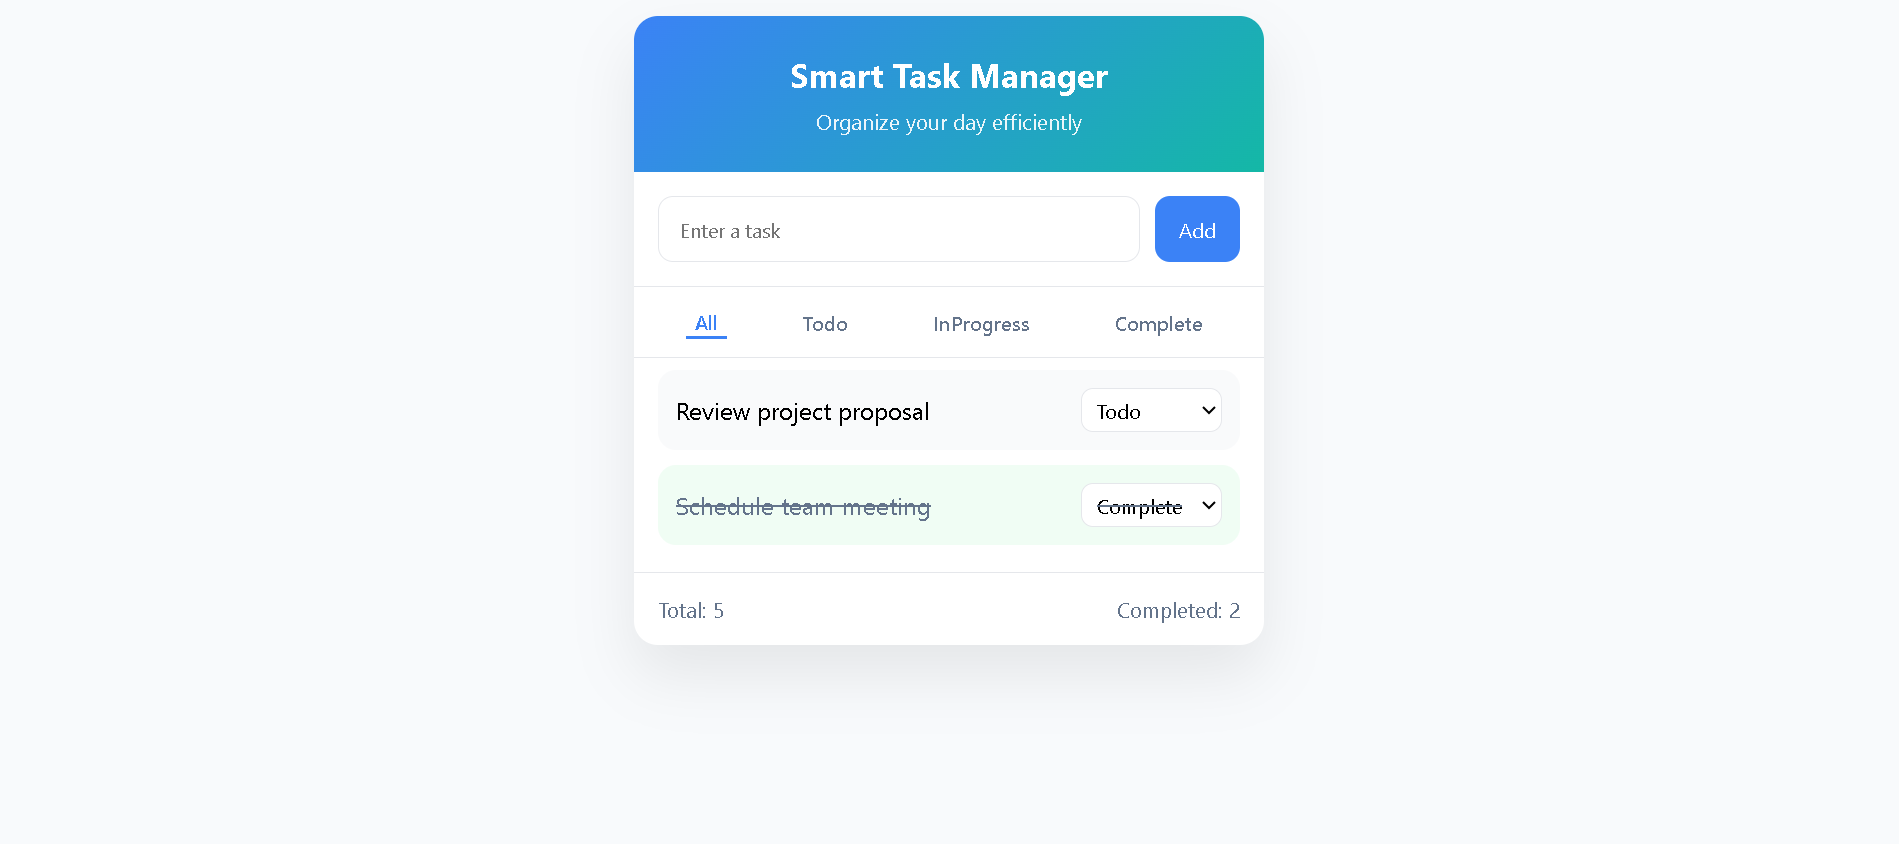
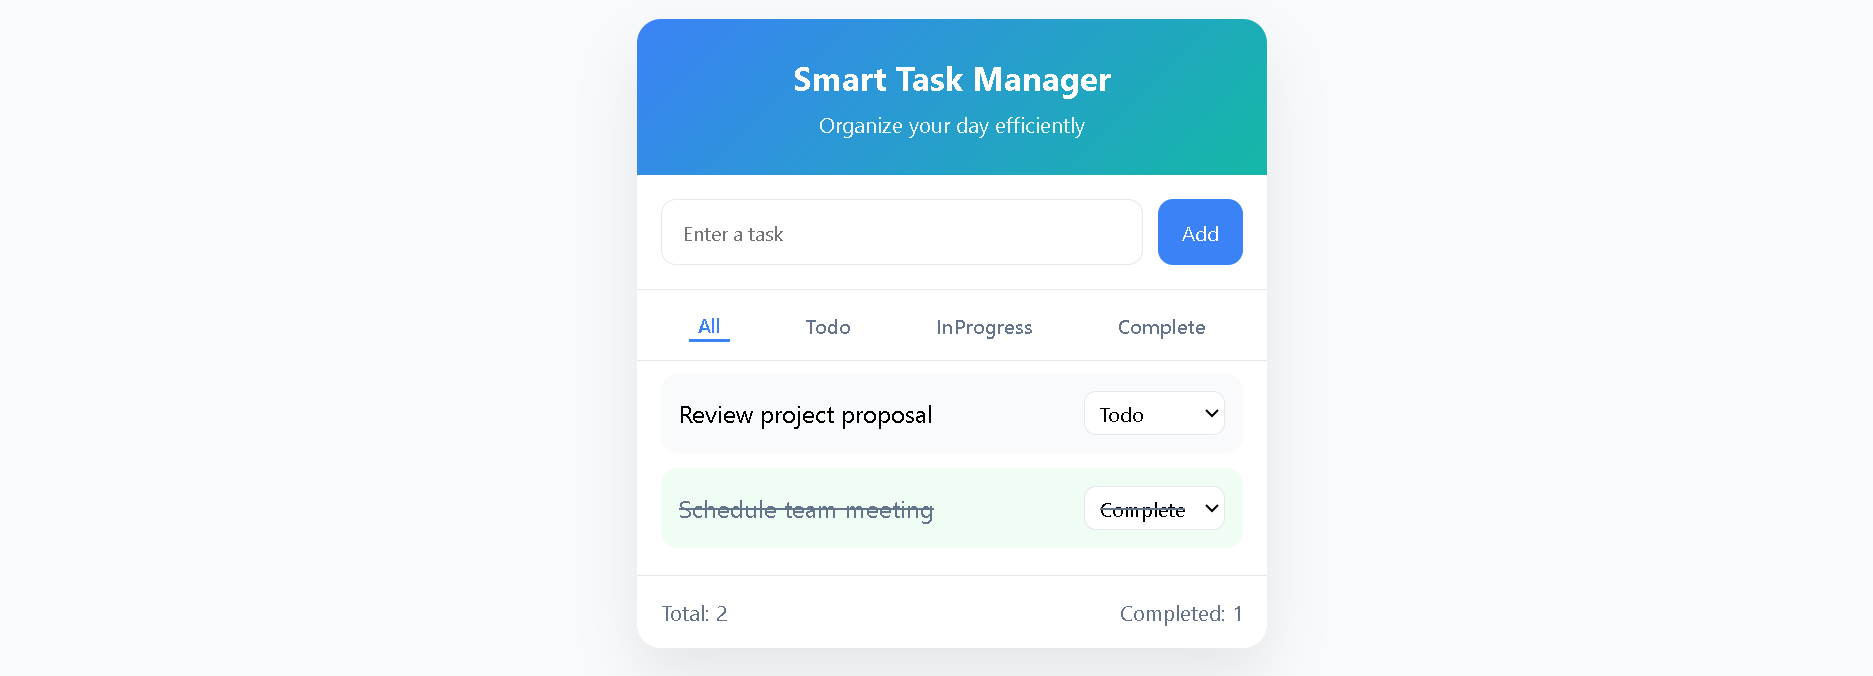
Update task completion counts in footer and modify preview image

diff --git a/index.html b/index.html
@@ -53,8 +53,8 @@
       </div>
 
       <div class="footer">
-        <span>Total: 5</span>
-        <span>Completed: 2</span>
+        <span>Total: 2</span>
+        <span>Completed: 1</span>
       </div>
     </div>
   </body>
